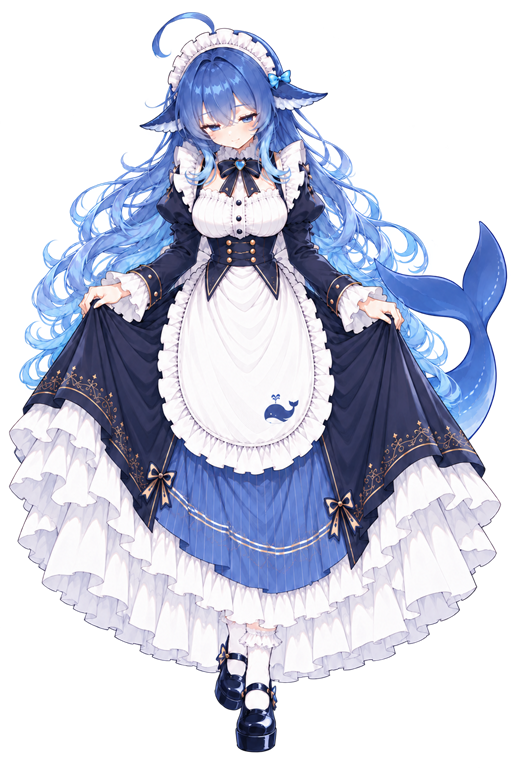
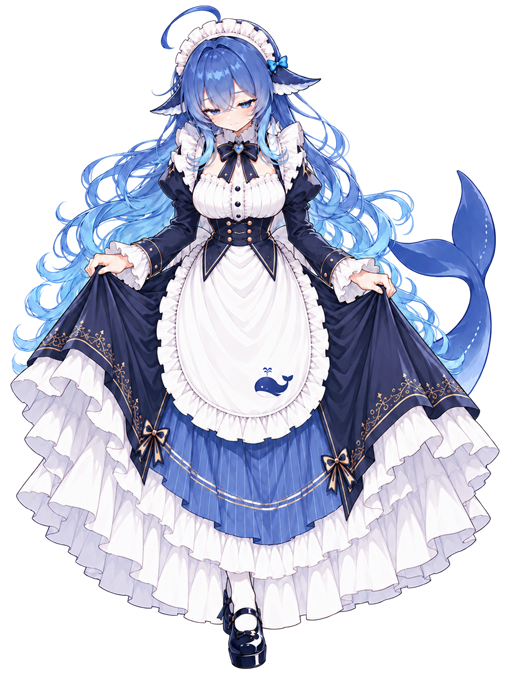
fix: update transparent welcome character walking pose

diff --git a/README.md b/README.md
@@ -8,7 +8,7 @@
 
 **设计逻辑源自 [Chat Agent Harness（CAH）](https://github.com/Tests4gptplay/chat-agent-harness)。** DeepSeek Servant 延续 CAH 以目标为中心的 Agent 工作闭环：理解需求、制定计划、执行工作、评价成果、调整方法、跨会话接续、故障恢复与技能积累。Servant 将这套持续工作机制整合到 DeepSeek Harness 运行环境，复用宿主的模型、工具、Session、作业与 Skill 能力。
 
-**当前版本：** `0.1.0-alpha.21` · **适配宿主：** DSH `0.2.1-rc.2` · **项目形态：** 独立安装的社区插件
+**当前版本：** `0.1.0-alpha.22` · **适配宿主：** DSH `0.2.1-rc.2` · **项目形态：** 独立安装的社区插件
 
 ## 核心能力
 
@@ -54,7 +54,7 @@ npm pack --ignore-scripts
 将生成的插件包安装到指定 DSH profile：
 
 ```sh
-dsh plugin --profile <profile> add ./deepseek-servant-0.1.0-alpha.21.tgz --ignore-scripts
+dsh plugin --profile <profile> add ./deepseek-servant-0.1.0-alpha.22.tgz --ignore-scripts
 ```
 
 建议先选择独立的 DSH profile 验证。模型提供者、工具权限与凭据使用宿主已有配置。
